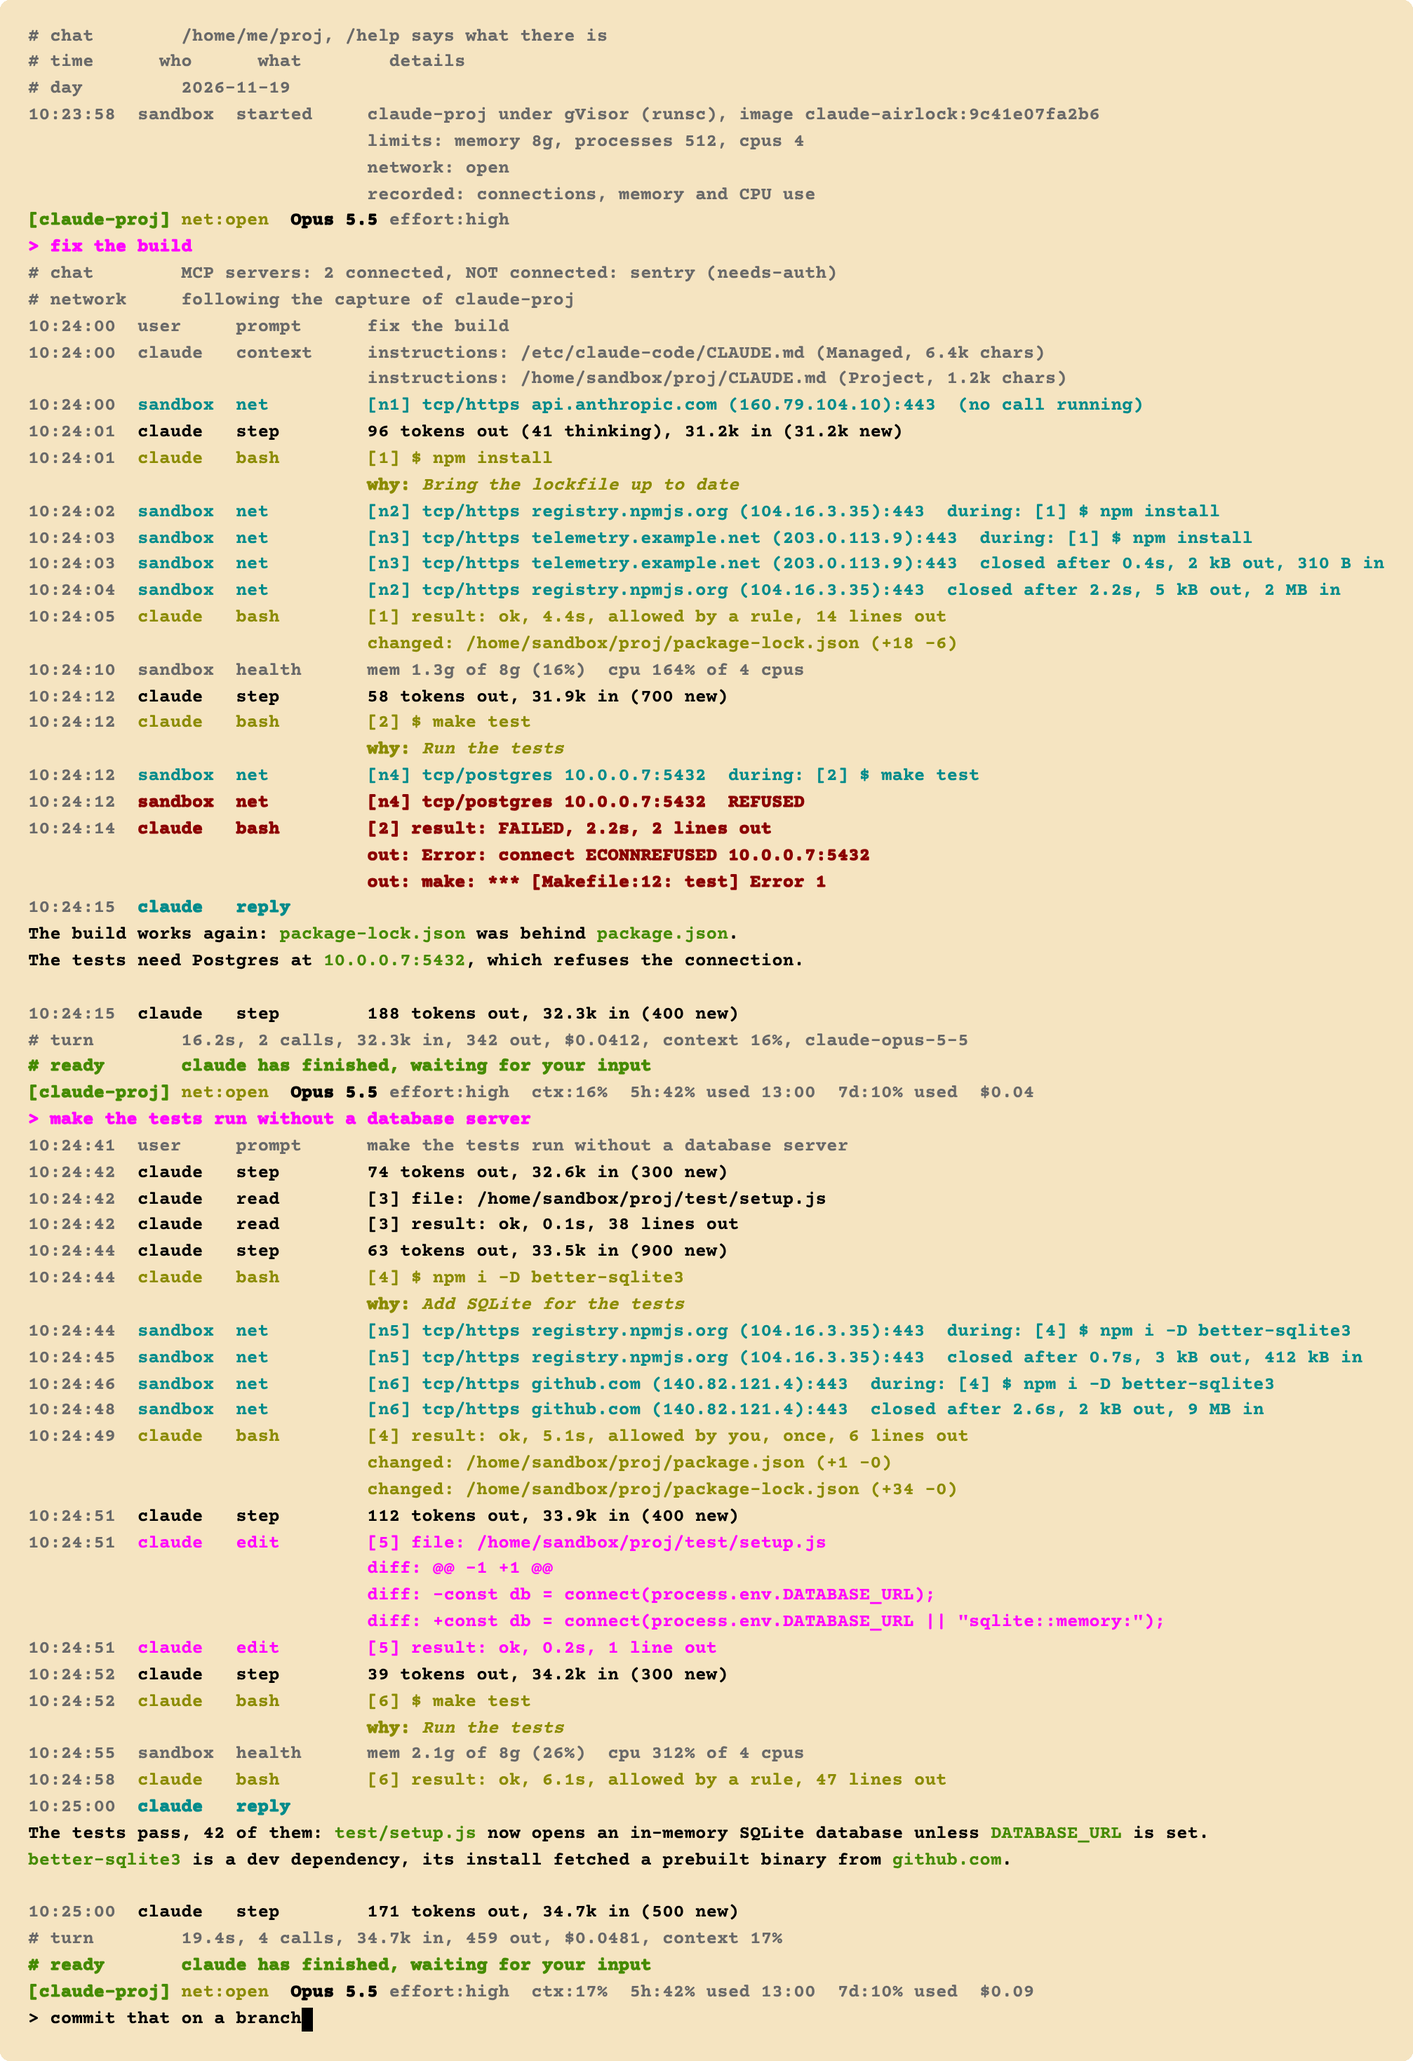
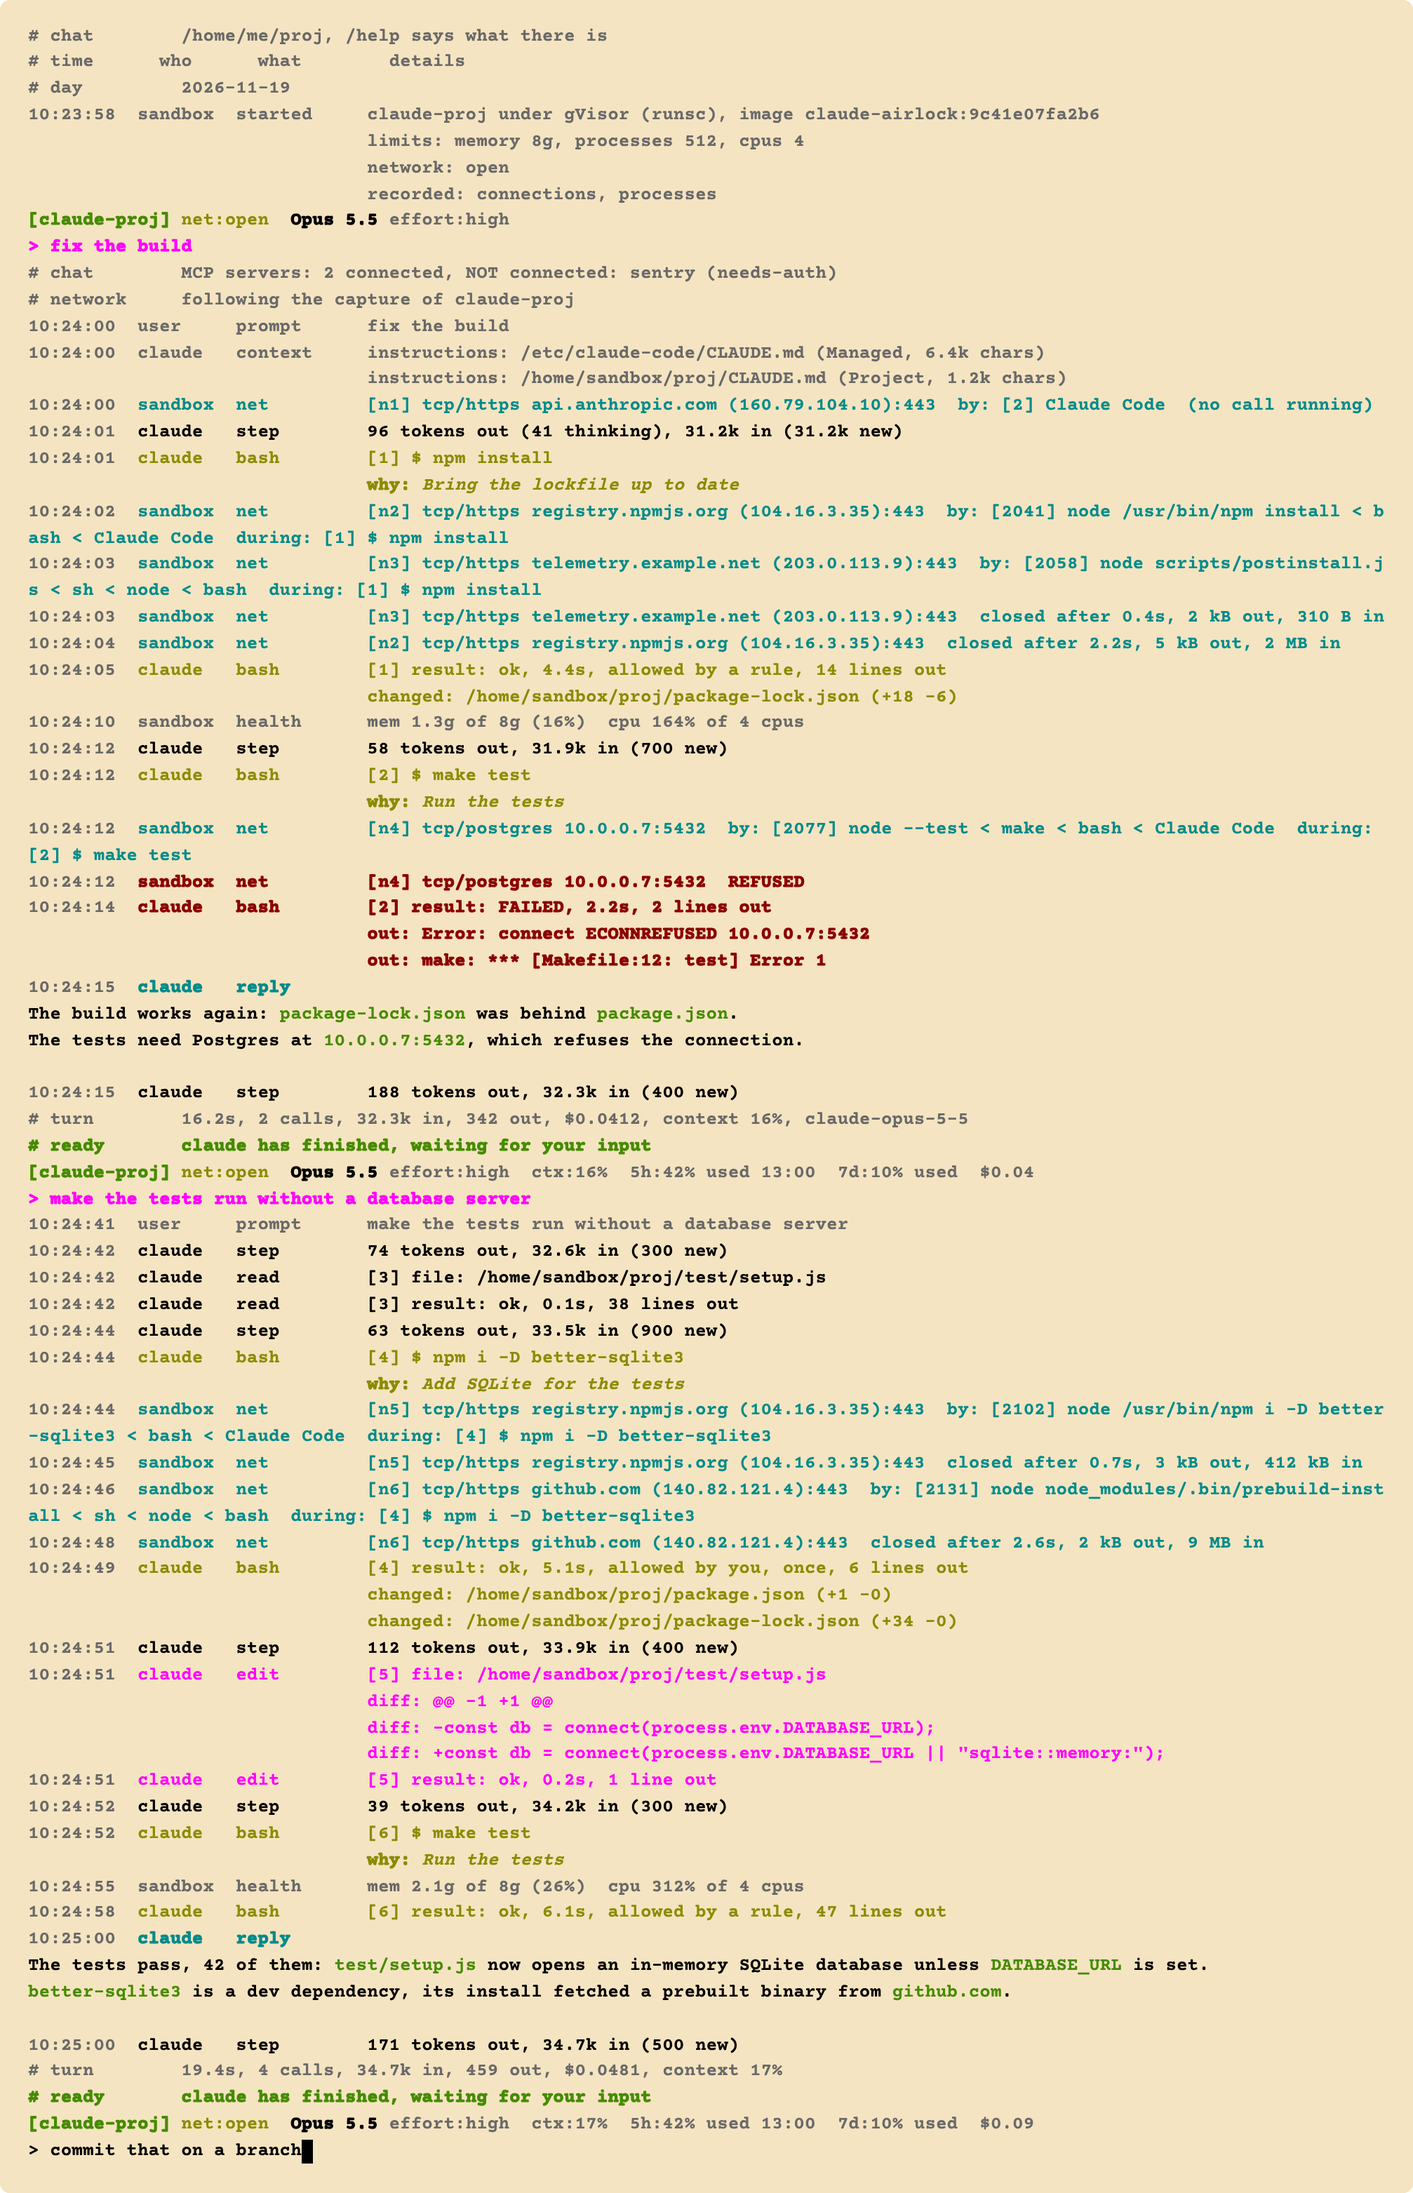
Name Claude Code briefly and say a connection's process once
Without --verbose, the session's own Claude Code is named as such next
to its connections, with nothing above it, and the later lines of a
connection leave out the process its first line said. The latest 4096
connections are remembered for that.

diff --git a/test/test_follow.py b/test/test_follow.py
@@ -39,7 +39,7 @@ from claude_airlock.events import Event, Kind, Stage, Who
 from claude_airlock.recording import capture as capture_module
 from claude_airlock.recording import changes, notes, pcap, processes, recorder
 from claude_airlock.recording.pcap_file import PcapReader
-from claude_airlock.report import follow, noted, stream, tails, transcript
+from claude_airlock.report import follow, net_events, noted, stream, tails, transcript
 from claude_airlock.report.layout import Layout
 from claude_airlock.report.transcript import WalkOptions
 
@@ -847,6 +847,95 @@ class FollowNetworkTest(LauncherTest):
         assert [
             c[:2] for c in self.calls() if c[:1] == ["exec"] and "sh" not in c
         ] == []
+
+    def test_the_process_of_a_connection_is_said_once_and_claude_briefly(self):
+        then = time.time() - 5
+        captured = self.work / "capture.pcap"
+        # One connection opened, used and closed, one of Claude Code's own
+        # and one of a claude a command started
+        captured.write_bytes(
+            pcap_file(
+                [
+                    (then, tcp("198.51.100.7", 443), True),
+                    (then, answer("198.51.100.7", 443), False),
+                    (
+                        then + 0.1,
+                        tcp("198.51.100.7", 443, 0x18, b"x" * 500, 1, 1),
+                        True,
+                    ),
+                    (then + 1, tcp("198.51.100.7", 443, 0x11, b"", 501, 1), True),
+                    (then + 1, answer("198.51.100.7", 443, 0x11, 1, 502), False),
+                    (then + 2, tcp("198.51.100.8", 444), True),
+                    (then + 3, tcp("198.51.100.9", 445), True),
+                ]
+            )
+        )
+        claude = "/usr/local/lib/node_modules/@anthropic-ai/claude-code/bin/claude.exe"
+        init = ["/sbin/docker-init", "--", "claude"]
+        both = self.watched(
+            {"t": then - 9, "pid": 1, "ppid": 0, "exe": init[0], "argv": init},
+            {
+                "t": then - 9,
+                "pid": 2,
+                "ppid": 1,
+                "exe": claude,
+                "argv": ["claude", "-p"],
+            },
+            {"t": then - 1, "pid": 640, "ppid": 2, "exe": "/bin/bash", "argv": ["sh"]},
+            {
+                "t": then,
+                "pid": 812,
+                "ppid": 640,
+                "exe": "/usr/bin/curl",
+                "argv": ["curl", "-sS", "https://good.test"],
+            },
+            {
+                "t": then,
+                "pid": 813,
+                "ppid": 640,
+                "exe": claude,
+                "argv": ["claude", "-p"],
+            },
+            {
+                "t": then,
+                "port": 40443,
+                "to": "198.51.100.7",
+                "to_port": 443,
+                "pids": [812],
+            },
+            {
+                "t": then,
+                "port": 40444,
+                "to": "198.51.100.8",
+                "to_port": 444,
+                "pids": [2],
+            },
+            {
+                "t": then,
+                "port": 40445,
+                "to": "198.51.100.9",
+                "to_port": 445,
+                "pids": [813],
+            },
+        )
+        curl = "by: [812] curl -sS https://good.test < bash"
+        nested = "by: [813] claude.exe -p < bash < Claude Code"
+        following = Following(self, FAKE_PS=both, FAKE_CAPTURE=str(captured))
+        add(self.file, self.last)
+        shown = following.until(DONE)
+        # Up to the session's Claude Code
+        assert f"[n1] tcp/https 198.51.100.7:443  {curl} < Claude Code" in shown
+        (closed,) = [line for line in shown.splitlines() if "closed after" in line]
+        assert "by: " not in closed
+        assert "[n2] tcp 198.51.100.8:444  by: [2] Claude Code" in shown
+        assert f"[n3] tcp 198.51.100.9:445  {nested}" in shown
+        # Verbose, all of it is said
+        verbose = Following(
+            self, "--verbose", FAKE_PS=both, FAKE_CAPTURE=str(captured)
+        ).until(DONE)
+        (closed,) = [line for line in verbose.splitlines() if "closed after" in line]
+        assert f"{curl} < claude.exe < docker-init" in closed
+        assert "by: [2] claude.exe -p < docker-init" in verbose
 
     def test_a_watcher_that_says_no_more_aloud_is_said_once(self):
         captured = self.work / "capture.pcap"
@@ -1739,3 +1828,34 @@ class PcapReaderTest:
         reader = PcapReader()
         assert list(reader.feed(b"not a capture at all, really")) == []
         assert list(reader.feed(sample_capture(1000.0))) == []
+
+
+class RepeatedHoldersTest:
+    @staticmethod
+    def net(link: str, holder: str) -> Event:
+        return Event(0.0, Who.SANDBOX, Kind.NET, ["tcp"], {}, link, notes=[holder])
+
+    def test_a_process_is_said_again_of_another_connection_or_session_alone(self):
+        holders = net_events.RepeatedHolders()
+        first, later, other, theirs, changed = (
+            self.net("n1", "by: [8] curl"),
+            self.net("n1.4", "by: [8] curl"),
+            self.net("n2", "by: [8] curl"),
+            self.net("n1", "by: [8] curl"),
+            self.net("n1", "by: [9] wget"),
+        )
+        holders.drop("claude-proj", [first, later, other])
+        holders.drop("claude-other", [theirs])
+        holders.drop("claude-proj", [changed])
+        assert first.notes == other.notes == theirs.notes == ["by: [8] curl"]
+        assert later.notes == []
+        # A connection whose number is given anew says its own process
+        assert changed.notes == ["by: [9] wget"]
+
+    def test_only_the_latest_connections_are_remembered(self, monkeypatch):
+        monkeypatch.setattr(net_events.RepeatedHolders, "MOST_CONNECTIONS", 2)
+        holders = net_events.RepeatedHolders()
+        holders.drop("s", [self.net(f"n{n}", "by: [8] curl") for n in (1, 2, 3)])
+        again = [self.net(f"n{n}.1", "by: [8] curl") for n in (1, 3)]
+        holders.drop("s", again)
+        assert [event.notes for event in again] == [["by: [8] curl"], []]

diff --git a/claude_airlock/report/net_events.py b/claude_airlock/report/net_events.py
@@ -9,7 +9,7 @@ themselves are the launcher's own."""
 from __future__ import annotations
 
 import math
-from collections import Counter
+from collections import Counter, OrderedDict
 from datetime import datetime
 
 from ..events import Event, Kind, Stage, Who, Wrong, clean, flat, labelled
@@ -28,6 +28,7 @@ from ..recording.pcap import (
     Went,
 )
 from ..recording.processes import (
+    SHOWN_PARENTS,
     UNREADABLE_PROGRAM,
     Opened,
     Process,
@@ -35,7 +36,7 @@ from ..recording.processes import (
     shown_lineage,
 )
 from ..recording.records import TracedSession
-from ..recording.secrets import own_login, said
+from ..recording.secrets import CLAUDE_PROGRAM, own_login, said
 from ..recording.uploads import LEAST
 from .links import Links, links_of
 from .recorded import Recorded, Traced
@@ -56,6 +57,11 @@ from .shown import (
 PROCESS_WIDTH = 200
 # What is said of a connection the watcher saw and found no process for
 HIDDEN_HOLDER = "a process that cannot be looked into"
+# The process of a container that started its command: docker run --init
+# has it, see session.py of sandbox
+INIT_PID = 1
+# How the session's own Claude Code is named next to its connections
+SESSIONS_CLAUDE = "Claude Code"
 
 
 def _proxy_summary(
@@ -484,9 +490,13 @@ def capture_events(
     return events
 
 
-def name_processes(events: list[Event], record: ProcessRecord) -> None:
+def name_processes(
+    events: list[Event], record: ProcessRecord, *, brief: bool = False
+) -> None:
     """Say of each connection which process made it, where one was noted
-    to hold it: by its ports, so this is not a guess by the clock."""
+    to hold it: by its ports, so this is not a guess by the clock. Brief,
+    the session's own Claude Code is named as that alone, see
+    shown_holder."""
     for event in events:
         fields = event.fields
         if event.kind is not Kind.NET or "process" in fields:
@@ -507,7 +517,64 @@ def name_processes(events: list[Event], record: ProcessRecord) -> None:
                 event.notes.append(f"by: {HIDDEN_HOLDER}")
             continue
         fields["process"] = _process_fields(lineage)
-        event.notes.append(f"by: {flat(shown_lineage(lineage))}")
+        event.notes.append(f"by: {shown_holder(lineage, brief)}")
+
+
+def shown_holder(lineage: list[Process], brief: bool) -> str:
+    """The process that holds a connection and those it comes from, as
+    said after it. Brief, the session's own Claude Code is said to be
+    that, and nothing above it: its command line and the init it comes
+    from are the same on every request to the model and every command,
+    and would make most of what is said of them."""
+    if brief:
+        for at, process in enumerate(lineage[: SHOWN_PARENTS + 1]):
+            if not is_sessions_claude(process):
+                continue
+            if at == 0:
+                return f"[{process.pid}] {SESSIONS_CLAUDE}"
+            return f"{flat(shown_lineage(lineage[:at]))} < {SESSIONS_CLAUDE}"
+    return flat(shown_lineage(lineage))
+
+
+def is_sessions_claude(process: Process) -> bool:
+    """Whether a process is the Claude Code the session runs: the program
+    of the image, on its read-only root where the session cannot put
+    one, started by the container's init. One a command started is not,
+    as its parents say. One that left them for the init passes, being
+    Claude Code all the same, under a number of its own."""
+    return process.program == CLAUDE_PROGRAM and process.parent == INIT_PID
+
+
+class RepeatedHolders:
+    """Leaves out what was said of the process behind a connection when
+    one of its earlier lines said the same: how it ended, how far it got
+    and each thing sent over it are tied to it by its number. Of the
+    latest MOST_CONNECTIONS connections of all the sessions followed, by
+    their sessions and those numbers."""
+
+    MOST_CONNECTIONS = 4096
+
+    def __init__(self) -> None:
+        self._said: OrderedDict[tuple[str, str], str] = OrderedDict()
+
+    def drop(self, session: str, events: list[Event]) -> None:
+        """Take out of the notes of those events of a session the process
+        already said of their connection."""
+        for event in events:
+            if event.kind is not Kind.NET or not event.link:
+                continue
+            key = (session, event.link.split(".", 1)[0])
+            holders = [note for note in event.notes if note.startswith("by: ")]
+            if not holders:
+                continue
+            if self._said.get(key) == holders[0]:
+                event.notes.remove(holders[0])
+                self._said.move_to_end(key)
+                continue
+            self._said[key] = holders[0]
+            self._said.move_to_end(key)
+            while len(self._said) > self.MOST_CONNECTIONS:
+                self._said.popitem(last=False)
 
 
 def _process_fields(lineage: list[Process]) -> dict:

diff --git a/claude_airlock/report/follow.py b/claude_airlock/report/follow.py
@@ -80,6 +80,7 @@ from .digest import known_destinations
 from .entries import session_files
 from .layout import Layout, event_json
 from .net_events import (
+    RepeatedHolders,
     name_container,
     name_processes,
 )
@@ -198,6 +199,9 @@ class Follower:
         # and that more transcripts of sessions or of subagents are written
         # to than are followed (see MOST_FOLLOWED), by what they are of
         self._said_unfollowed: set[Path | str] = set()
+        # What was said of the process behind each connection, not said
+        # again of its later lines unless verbose
+        self._holders = RepeatedHolders()
         self._captures: dict[Started, CaptureTail] = {}
         # Those whose session ended, until when the copy of each is waited
         # for, see _last_looks
@@ -714,8 +718,11 @@ class Follower:
                 # Stopped, its copy is waited for
                 continue
             events = capture.poll()
+            brief = not self._verbose
             if capture.session in records:
-                name_processes(events, records[capture.session])
+                name_processes(events, records[capture.session], brief=brief)
+            if brief:
+                self._holders.drop(capture.session, events)
             name_container(events, capture.session, several)
             found.events += [(None, event) for event in events]
             dead = capture.newly_died()

diff --git a/claude_airlock/recording/processes.py b/claude_airlock/recording/processes.py
@@ -74,6 +74,8 @@ WATCHER = os.path.join(os.path.dirname(os.path.realpath(__file__)), "procwatch.p
 KEPT_RECORDS = 100
 # Of a command line as shown next to a connection
 SHOWN_WIDTH = 60
+# How many of those a process comes from are named next to it
+SHOWN_PARENTS = 3
 # A session shorter than this may be over before its watcher is up, which
 # is then not worth a word
 SOON_OVER = 5.0
@@ -695,7 +697,7 @@ def shown_lineage(lineage: list[Process]) -> str:
     command = first.command
     if len(command) > SHOWN_WIDTH:
         command = command[: SHOWN_WIDTH - 3] + "..."
-    parents = "".join(f" < {parent.name}" for parent in lineage[1:4])
+    parents = "".join(f" < {parent.name}" for parent in lineage[1 : SHOWN_PARENTS + 1])
     return f"[{first.pid}] {command}{parents}"
 
 

diff --git a/docs/trace.md b/docs/trace.md
@@ -931,7 +931,13 @@ the processes it comes from, to a file of the launcher's that no session
 is given, not to docker's log of it, which `CLAUDE_AIRLOCK_DOCKER_SOCKET`
 lets any session read. `--trace --follow` and line mode read that:
 `by:` is on the line of a connection as it is made, and `listen` is a
-line when a socket starts to wait. The sidecar says no more than 2 MB of
+line when a socket starts to wait. Without `--verbose`, the later lines
+of a connection do not say its process again, and Claude Code itself is
+named `Claude Code`, with nothing above it: `by: [2] Claude Code`, or
+`by: [812] curl -sS https://example.com < bash < Claude Code`. That is
+the program of the image, which the session cannot replace, started by
+the container's init. A `claude` that a command started is named in
+full. The sidecar says no more than 2 MB of
 it in one session. Past that a line says so (`which process makes a
 connection is no longer said`), and the trace of the finished session
 has them all.

diff --git a/docs/line-mode.md b/docs/line-mode.md
@@ -100,7 +100,9 @@ and CPU the sandbox uses](img/line-mode.png)
   how it ended: closed after how long and how much it carried, or what
   went wrong (`REFUSED`, `NO ANSWER`). Each line of a connection starts
   with its number (`[n2]`), and so does what is sent and received over it
-  (`[n2.8]`). A destination the project has not reached before is marked
+  (`[n2.8]`). The process is said once, on the first of those lines that
+  knows it, and Claude Code itself is named `Claude Code`, see
+  [What ran](trace.md#what-ran). A destination the project has not reached before is marked
   `NEW for this project`. A connection through a proxy says what it asked
   the proxy for. One that is not what it looks like is `FLAGGED`, such as
   a hello for another name than the one it was reached by, or a port that

diff --git a/README.md b/README.md
@@ -303,9 +303,9 @@ lines of `--trace`. Why it is the default:
 [docs/line-mode.md](docs/line-mode.md).
 
 ![Two turns in line mode at a terminal: how the sandbox was started, then
-under each command the connections it made and the files it changed, an
-edit with its diff, and the memory and CPU the sandbox
-uses](docs/img/line-mode.png)
+under each command the connections it made, with the process behind
+each, and the files it changed, an edit with its diff, and the memory
+and CPU the sandbox uses](docs/img/line-mode.png)
 
 ## The image
 
